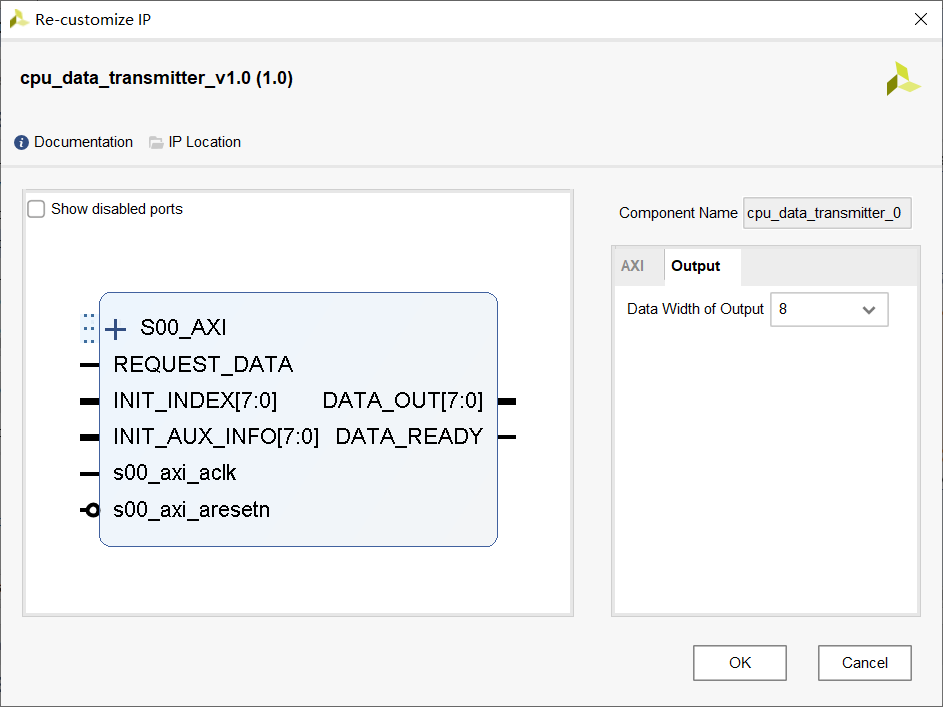
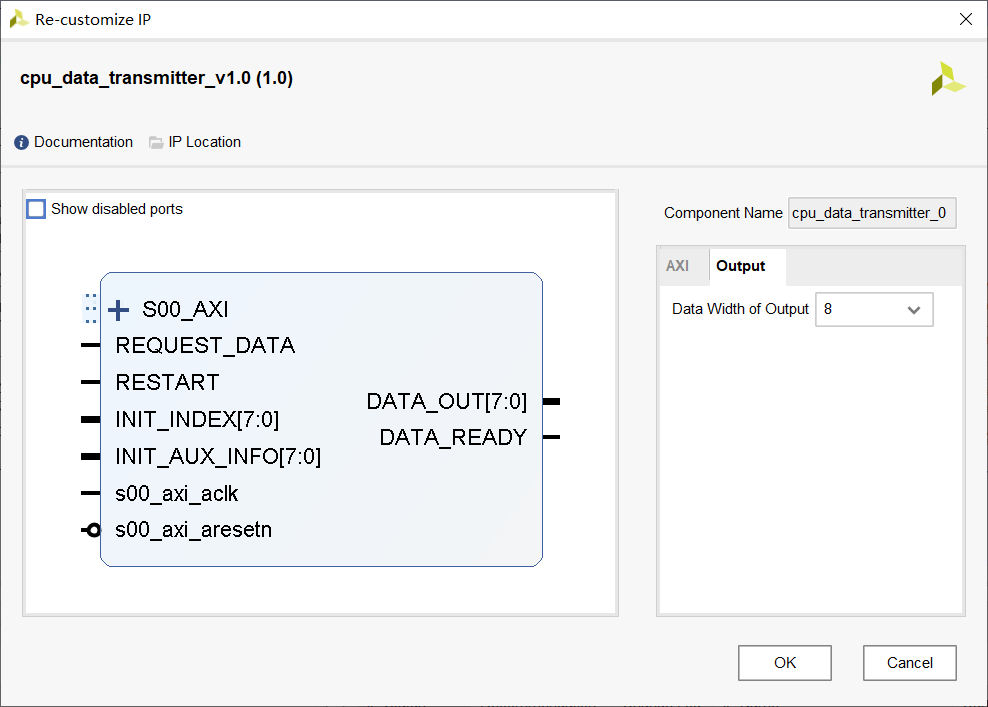
更新 cpu_data_transmitter 的文档。

diff --git a/doc/cpu_data_transmitter/README.md b/doc/cpu_data_transmitter/README.md
@@ -12,13 +12,15 @@
 
 - s00_axi_aresetn: 低有效复位，使用自动连线功能连接即可。
 
-- INIT_INDEX: 用于表示要读取数据的索引，在复位完成后的第一个时钟沿（待改进，计划之后加一个使能）读到输入并将其作为之后输出数据的索引。
+- INIT_INDEX: 用于表示要读取数据的索引，在第一次使用时或者 RESTART 从 1 变为 0 之后读输入并将其作为之后输出数据的索引。
 
   例如，若 `INIT_INDEX == 3`，则之后读出的数据是 SD 卡中目录 `3/` 下的文件。
 
 - INIT_AUX_INFO: 用于表示要读取数据的类型，生效时间同 INIT_INDEX。具体信息见之后的编码说明。
 
-- REQUEST_DATA: 想要从该模块读一个数据。类似于一个水龙头，只保证打开水龙头有出水的倾向，关闭水龙头有不出水的倾向，不保证真正有水，也不保证出水量，也不保证关闭水龙头后“滴水不漏”。
+- REQUEST_DATA: 想要从该模块读一个数据。类似于一个水龙头，只保证打开水龙头有出水的倾向，关闭水龙头有不出水的倾向，不保证真正有水，也不保证出水量，也不保证关闭水龙头后“滴水不漏”。请配合 FIFO 使用。
+
+- RESTART: 通知 CPU 复位。需要保持不定长的时间，复位后 CPU 将重新读取 INIT_INDEX 和 INIT_AUX_INFO。
 
 - DATA_OUT: 读到的数据，一次读出的数据量取决于参数 `Data Width of Output`。见 DATA_READY 的说明。
 
@@ -71,9 +73,9 @@ CPU 将数据写到 cpu_data_transmitter 的，自动生成的的 AXI4 相关代
 
 - REGISTER_OUT_3: 同步数据，含义如下表所示。
 
-  |  31  |      30      | 29:16 |          15:8          | 7:0  |
-  | :--: | :----------: | :---: | :--------------------: | :--: |
-  | 复位 | 是否需要数据 | 保留  | 附加信息（见下方注释） | 索引 |
+  |      31       |      30      | 29:16 |          15:8          | 7:0  |
+  | :-----------: | :----------: | :---: | :--------------------: | :--: |
+  | 通知 CPU 复位 | 是否需要数据 | 保留  | 附加信息（见下方注释） | 索引 |
 
   附加信息的含义如下表所示。
 
@@ -81,4 +83,3 @@ CPU 将数据写到 cpu_data_transmitter 的，自动生成的的 AXI4 相关代
   | :--------------------: | :--: | :----------------------------------------: |
   | 是否是全局资源（保留） | 保留 | 当不是全局资源时，表示是歌（0）还是谱（1） |
 
-## 软件端设计
